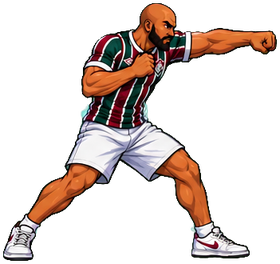
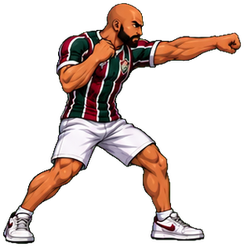
Luta: PTK todo animado (parado, andando, correndo, pulo, defesa, golpes, especiais, apanhando, queda, entrada e vitória) com tamanho igualado
Claude-Session: https://claude.ai/code/session_011mVH7idZefrt4q2rVb7Yyr

Changed region(s): [[0.0, 0.0, 1.0, 0.9919]]

diff --git a/luta/index.html b/luta/index.html
@@ -259,7 +259,7 @@ const $=id=>document.getElementById(id);
 // sprites: largura, altura, x do pé, y do pé (já na escala da imagem)
 // lutadores: cada um com seus sprites (largura, altura, x do pé, y do pé)
 const CHARS=[
-  {id:'c1',name:'PTK SENNA',tag:'Estilo Rugal: Reppuuken, Kaiser Wave, Genocide Cutter',px:1,meta:{"idle":[208.0,288.8,109.4,284.8],"walk":[206.4,288.0,105.8,284.0],"jump":[162.4,285.6,76.2,281.6],"crouch":[192.0,193.6,75.9,189.6],"jab":[280.8,264.0,134.2,260.0],"punch":[245.6,248.8,120.3,244.8],"lowkick":[239.2,206.4,84.0,202.4],"highkick":[257.6,252.0,108.8,248.0],"block":[183.2,237.6,93.4,233.6],"hit":[208.8,242.4,163.6,238.4],"ko":[367.2,100.0,186.6,96.0],"special":[283.2,196.8,123.8,192.8],"fireball":[164.8,140.8,3.2,136.8],"win":[187.2,284.0,92.6,280.0],"kch":[248,281,132.5,277.1],"kpush":[246,281,127.1,277.1],"barrier":[257,286,119.6,281.6],"gpdash":[370,235,25.0,231.0],"gpgrab":[221,286,100.9,281.6],"knee":[143,292,76.7,287.9],"bkick":[261,292,71.0,287.9],"bspin":[322,269,169.9,265.3],"power":[240,296,127.8,292.4],"fx_wave":[322,81,161.3,40.7],"fx_kaiser":[269,115,134.6,57.6],"fx_arc":[260,237,130.4,118.8],"fx_bar":[148,222,74.0,111.0],"fx_boom":[317,220,158.8,110.2],"fx_sp1":[128,69,64.3,34.9],"fx_sp2":[108,79,54.1,39.7],"fx_sp3":[147,65,73.6,33.0],"gc1":[229,228,124.4,223.9],"gc2":[171,341,91.5,337.2],"gc3":[197,325,110.5,320.8],"gc4":[256,426,128.5,422.2],"gc5":[211,334,117.4,329.9],"gc6":[213,205,120.5,201.1],"rp1":[254,299,132.0,295.2],"rp2":[269,252,107.5,247.7],"rp3":[254,202,135.9,198.3],"rp4":[340,148,178.3,143.5],"rp5":[215,297,110.9,292.5]}},
+  {id:'c1',name:'PTK SENNA',tag:'Estilo Rugal: Reppuuken, Kaiser Wave, Genocide Cutter',px:1,meta:{"idle":[197,295,99.0,291.6],"walk":[206.4,288.0,105.8,284.0],"jump":[185,218,75.4,214.1],"crouch":[184,208,92.9,204.4],"jab":[244,247,107.7,242.9],"punch":[250,232,114.4,228.7],"lowkick":[277,179,101.6,176.0],"highkick":[259,261,95.7,257.0],"block":[218,259,111.8,255.3],"hit":[208.8,242.4,163.6,238.4],"ko":[367.2,100.0,186.6,96.0],"special":[283.2,196.8,123.8,192.8],"fireball":[164.8,140.8,3.2,136.8],"win":[187.2,284.0,92.6,280.0],"power":[240,296,127.8,292.4],"fx_boom":[317,220,158.8,110.2],"fx_sp1":[128,69,64.3,34.9],"fx_sp2":[108,79,54.1,39.7],"fx_sp3":[147,65,73.6,33.0],"gc1":[220,219,119.4,214.9],"gc2":[164,327,87.8,323.7],"gc3":[189,312,106.1,308.0],"gc4":[246,409,123.4,405.3],"gc5":[203,321,112.7,316.7],"gc6":[204,197,115.7,193.1],"rp1":[244,287,126.7,283.4],"rp2":[258,242,103.2,237.8],"rp3":[244,194,130.5,190.4],"rp4":[326,142,171.2,137.8],"rp5":[206,285,106.5,280.8],"kw1":[186,295,93.5,291.9],"kw2":[184,293,91.4,289.6],"kw3":[182,291,89.4,287.3],"kw4":[180,275,88.7,272.0],"kw5":[197,278,90.0,274.3],"kw6":[198,277,91.2,273.5],"gp1":[166,252,60.3,248.7],"gp2":[192,257,58.9,253.4],"gp3":[236,243,22.3,239.8],"gp4":[276,261,52.5,256.7],"gp5":[217,260,84.7,255.9],"gp6":[265,254,133.1,251.0],"gd1":[197,295,99.0,291.6],"gd2":[197,295,98.7,291.6],"gd3":[196,289,98.3,286.0],"gd4":[198,295,99.2,291.6],"wk1":[183,295,90.7,291.9],"wk2":[154,289,44.2,285.7],"wk3":[139,291,52.3,287.3],"wk4":[176,289,92.1,285.7],"wk5":[169,292,88.6,288.8],"wk6":[174,292,119.5,288.8],"bd1":[186,320,38.7,315.4],"bd2":[151,334,71.8,329.7],"bd3":[142,334,92.7,329.7],"bd4":[194,341,94.0,336.8],"bd5":[234,335,81.3,330.7],"bd6":[132,283,55.5,343.7],"bd7":[249,211,99.9,281.2],"bd8":[219,240,117.6,235.8],"db1":[261,295,135.1,291.9],"db2":[274,294,128.9,290.4],"db3":[262,294,128.1,290.4],"db4":[260,294,131.5,290.4],"fx_a1":[403,239,201.5,119.5],"fx_a2":[403,239,201.5,119.5],"fx_a3":[403,239,201.5,119.5],"fx_a4":[403,239,201.5,119.5],"fx_k1":[288,175,144.0,87.5],"fx_k2":[288,175,144.0,87.5],"fx_k3":[288,175,144.0,87.5],"fx_k4":[288,175,144.0,87.5],"fx_w1":[280,86,140.0,43.0],"fx_w2":[280,86,140.0,43.0],"fx_w3":[280,86,140.0,43.0],"fx_w4":[280,86,140.0,43.0],"fx_b1":[314,234,157.0,117.0],"fx_b2":[314,234,157.0,117.0],"fx_b3":[314,234,157.0,117.0],"fx_b4":[314,234,157.0,117.0],"lp1":[203,247,105.4,242.9],"lp2":[244,247,107.7,242.9],"lp3":[192,247,98.9,242.9],"hp1":[222,238,117.5,235.0],"hp2":[205,237,105.1,232.6],"hp3":[250,232,114.4,228.7],"hp4":[197,237,101.7,232.6],"lk1":[150,192,56.3,188.7],"lk2":[277,179,101.6,176.0],"lk3":[191,215,99.4,211.4],"hk1":[131,256,54.4,253.1],"hk2":[164,260,103.0,256.2],"hk3":[259,261,95.7,257.0],"hk4":[108,256,32.0,253.1],"hit1":[185,247,96.3,244.2],"hit2":[198,226,101.8,223.0],"hit3":[160,163,40.6,159.3],"hit4":[187,245,96.3,241.2],"fall1":[281,200,131.4,196.4],"fall2":[254,115,128.3,112.2],"fall3":[264,119,122.0,115.3],"fall4":[266,78,123.1,74.3],"up1":[266,129,132.1,125.1],"up2":[240,161,119.7,157.0],"up3":[181,207,99.5,204.0],"up4":[202,232,105.0,228.3],"in1":[166,296,83.2,292.0],"in2":[169,296,74.7,292.0],"in3":[170,296,87.4,292.0],"in4":[214,285,109.9,281.6],"wn1":[140,300,71.3,296.0],"wn2":[194,300,81.4,296.0],"wn3":[178,324,92.3,320.1],"wn4":[255,297,135.4,293.6],"th1":[205,297,89.1,293.6],"th2":[188,328,91.1,324.1],"th3":[193,300,97.7,296.8],"th4":[223,304,95.2,300.0],"jp1":[186,212,76.4,207.9],"jp2":[211,285,104.8,280.8],"jp3":[185,218,75.4,214.1],"jp4":[285,254,138.5,250.1],"cr":[184,208,92.9,204.4],"bl":[218,259,111.8,255.3],"cb":[193,216,99.7,212.3],"ak":[293,250,139.0,246.6],"run1":[188,238,33.8,234.3],"run2":[207,247,26.5,243.0],"run3":[219,224,81.0,220.2],"run4":[248,238,181.0,234.3],"run5":[204,247,24.8,243.0],"run6":[247,241,22.0,236.9]}},
   {id:'c3',name:'FOFOQUEIRA',tag:'Mergulho de barriga e chama o busão',sp:'dive',tk:'bus',meta:{"idle":[228,286,114.6,282.4],"walk":[221,291,111.3,287.2],"jump":[205,252,96.0,248.0],"crouch":[213,224,82.1,220.0],"jab":[238,254,106.3,250.4],"punch":[296,269,127.2,265.6],"highkick":[285,257,87.6,253.6],"block":[226,267,109.7,263.2],"hit":[284,256,200.8,252.8],"ko":[412,161,200.7,157.6],"special":[408,144,194.5,140.8],"win":[157,273,78.4,269.6],"lowkick":[285,257,87.6,253.6]}},
   {id:'c4',name:'NELSON BOLSONARISTA',tag:'Solta o passarinho e taca o cigarro',tk:'cig',limp:1,meta:{"idle":[204,289,103.6,285.1],"walk":[209,293,121.1,288.6],"jump":[176,273,84.5,269.3],"crouch":[142,198,49.2,194.5],"jab":[230,247,97.3,242.9],"punch":[245,248,114.7,243.8],"lowkick":[275,254,84.8,249.9],"highkick":[242,266,99.7,262.2],"block":[192,242,91.2,237.6],"hit":[195,239,129.7,235.0],"ko":[298,127,149.7,123.2],"special":[312,265,143.4,261.4],"fireball":[105,64,3.5,59.8],"win":[450,308,98.3,303.6]}},
   {id:'c2',name:'BODINHO',tag:'Magrelo, rápido e solta bola de fogo',meta:{"idle":[202,281,99.6,277.6],"walk":[199,279,97.5,275.2],"jump":[195,244,91.6,240.8],"crouch":[177,189,66.1,185.6],"jab":[268,252,113.8,248.8],"punch":[236,244,113.0,240.8],"lowkick":[264,231,72.4,227.2],"highkick":[242,264,93.2,260.8],"block":[184,234,89.6,230.4],"hit":[212,240,155.9,236.8],"ko":[401,117,189.8,113.6],"special":[312,218,131.7,214.4],"fireball":[186,143,3.2,139.2],"win":[196,288,97.9,284.8]}},
@@ -535,12 +535,12 @@ function stepPtk(f){const m=f.mv,t=f.t,d=F[1-f.i],end=()=>{f.state='idle';f.mv=n
   else if(m.px==='bd'){const seg=t<14?0:t<28?1:t<46?2:3;if(seg<3&&!f.hitDone)f.vx=3.6*f.face;else f.vx*=0.7;
     if(seg===0&&t===6||seg===1&&t===19||seg===2&&t===34){f.hitDone=false;const last=seg===2;if(ptkHit(f,last?{dmg:12,stun:24,push:6,lvl:'m',kd:1}:{dmg:7,stun:22,push:2.5,lvl:'m'},{reach:last?175:150,y0:last?250:270,y1:20,hy:last?170:140})){f.bdh++;if(!last)f.hitDone=false;else if(d.state==='down'){d.vx=f.face*14;d.vy=-12;d.spinRot=f.face*0.2}if(f.bdh>=2)G.cb={i:f.i,n:f.bdh,t:60}}}
     if(t>=58)end()}}
-function ptkSpr(f){const m=f.mv,t=f.t;switch(m.px){case'rep':return t<3?'rp1':t<6?'rp2':t<10?'rp3':t<24?'rp4':'rp5';case'kw':return t<17?'kch':'kpush';case'gc':return t<3?'gc1':f.ground&&t>8?'gc6':t<6?'gc2':t<9?'gc3':t<27?'gc4':'gc5';case'bar':return t<4?'idle':'barrier';
-  case'gp':return f.gpc?(f.gpEnd?'power':'gpgrab'):'gpdash';case'bd':return t<14?'knee':t<28?'bkick':t<46?'bspin':'power'}return'idle'}
+function ptkSpr(f){const m=f.mv,t=f.t;switch(m.px){case'rep':return t<3?'rp1':t<6?'rp2':t<10?'rp3':t<24?'rp4':'rp5';case'kw':return t<4?'kw1':t<9?'kw2':t<17?'kw3':t<20?'kw4':t<28?'kw5':'kw6';case'gc':return t<3?'gc1':f.ground&&t>8?'gc6':t<6?'gc2':t<9?'gc3':t<27?'gc4':'gc5';case'bar':return t<4?'db1':t<8?'db2':t<30?'db3':'db4';
+  case'gp':return f.gpc?(f.gpEnd?'power':(t%8<4?'gp5':'gp6')):t<4?'gp1':t<8?'gp2':t>=40?'gp1':(t<20?'gp3':'gp4');case'bd':return t<4?'bd1':t<12?'bd2':t<15?'bd3':t<18?'bd4':t<26?'bd5':t<31?'bd6':t<44?'bd7':'bd8'}return'idle'}
 function drawPtk(f){if(!(f.state==='atk'&&f.mv&&f.mv.px))return;const m=f.mv,t=f.t,M=CHARS[f.c].meta,I=IM[f.c];const dr=(k,x,y,s,a,rot)=>{const mm=M[k],im=I[k];if(!mm||!im)return;ctx.save();ctx.globalAlpha=a;ctx.translate(x,y);ctx.scale(f.face,1);if(rot)ctx.rotate(rot);ctx.drawImage(im,-mm[0]*s/2,-mm[1]*s/2,mm[0]*s,mm[1]*s);ctx.globalCompositeOperation='lighter';ctx.globalAlpha=a*0.35;ctx.drawImage(im,-mm[0]*s/2,-mm[1]*s/2,mm[0]*s,mm[1]*s);ctx.restore()};
-  if(m.px==='kw'&&t<18){const c=Math.min(1,(t+f.kc)/45);dr('fx_kaiser',f.x+f.face*70,f.y-185,K*(0.3+c*0.5),0.9,0);if(f.kc>=30&&G.tf%6<3)dr('fx_sp2',f.x+f.face*70,f.y-185,K*1.1,0.8,G.tf*0.2)}
-  if(m.px==='gc'&&t>=6&&t<26)dr('fx_arc',f.x+f.face*40,f.y-170,K*1.15,1-(t-6)/24,0);
-  if(barOn(f))dr('fx_bar',f.x+f.face*105,f.y-140,K*(1+Math.sin(G.tf*0.5)*0.05),Math.min(1,(t-4)/4)*(t>30?(34-t)/4:1),0);
+  if(m.px==='kw'&&t>=9&&t<18){const c=Math.min(1,(t+f.kc)/45);dr(c<0.35?'fx_k1':'fx_k2',f.x+f.face*55,f.y-205,K*(0.45+c*0.55),1,0);if(f.kc>=30&&G.tf%6<3)dr('fx_sp2',f.x+f.face*70,f.y-185,K*1.1,0.8,G.tf*0.2)}
+  if(m.px==='gc'&&t>=6&&t<27)dr(t<9?'fx_a1':t<14?'fx_a2':t<22?'fx_a3':'fx_a4',f.x+f.face*40,f.y-175,K*0.95,1,0);
+  if(m.px==='bar'&&t>=4&&t<38)dr(t<8?'fx_b1':t<12?'fx_b2':t<31?'fx_b3':'fx_b4',f.x+f.face*125,f.y-150,K*0.78*(t>=12&&t<31?1+Math.sin(G.tf*0.5)*0.04:1),1,0);
   if(m.px==='rep'&&t>=6&&t<12)dr('fx_sp1',f.x+f.face*110,f.y-30,K,0.9,0)}
 function drawEx(){for(const e of (G.ex||[])){const M=CHARS[e.c]&&CHARS[e.c].meta[e.k],im=IM[e.c]&&IM[e.c][e.k];if(!M||!im)continue;const k=1-e.l/e.L,s=K*(e.s0+(e.s1-e.s0)*k);ctx.save();ctx.globalAlpha=Math.min(1,e.l/(e.L*0.5));ctx.translate(e.x,e.y);ctx.scale(e.fl,1);ctx.drawImage(im,-M[0]*s/2,-M[1]*s/2,M[0]*s,M[1]*s);ctx.restore()}}
 function separate(){const a=F[0],b=F[1];if(['thrown','down','throw'].includes(a.state)||['thrown','down','throw'].includes(b.state))return;const d=b.x-a.x,min=72;if(Math.abs(d)<min&&Math.abs(a.y-b.y)<160&&a.state!=='ko'&&b.state!=='ko'){const push=(min-Math.abs(d))/2*(d>=0?1:-1);a.x-=push;b.x+=push;a.x=Math.max(60,Math.min(W-60,a.x));b.x=Math.max(60,Math.min(W-60,b.x))}}
@@ -553,7 +553,7 @@ function stepProj(f){const p=f.proj;if(!p)return;p.age=(p.age||0)+1;
   if(p.kind==='leaf')p.rot+=0.3;
   p.x+=p.vx;p.life--;if(p.vy)p.y=Math.min(p.y+p.vy,p.yMax);if(p.kind==='cig'){p.rot=(p.rot||0)+0.5;if(G.tf%2===0)G.parts.push({x:p.x-p.vx,y:p.y-4,vx:-p.vx*0.05,vy:-0.4,l:22,col:'rgba(225,225,225,.55)'})}const d=F[1-f.i];const h=hurt(d);
   const o=F[1-f.i].proj;if(o&&Math.abs(o.x-p.x)<60){spark((o.x+p.x)/2,p.y,'#9fdcff',18);f.proj=null;F[1-f.i].proj=null;sfx('block');return}
-  const fe=p.x+(p.vx>0?55:-55);if(h&&!p.hit&&fe>h.x0-10&&fe<h.x1+10&&p.y>h.y0&&p.y<h.y1){applyHit(f,d,p.kind==='wave'?MOVES.wave_hit:p.kind==='kaiser'?(p.big?MOVES.kw_big:MOVES.kw_hit):p.kind==='cig'?MOVES.cig_hit:p.kind==='boom'?MOVES.boom_hit:p.kind==='water'?MOVES.water_hit:MOVES.sp_hit,fe,p.y,1);if(p.kind==='cig')spark(fe,p.y,'#ff8a1a',14);if(p.kind==='leaf'||p.kind==='smoke')spark(fe,p.y,'#5dff6a',14);if(p.kind==='water')spark(fe,p.y,'#8fd6ff',16);if(p.kind==='wave'||p.kind==='kaiser')exAdd(p.c,'fx_sp'+(1+Math.floor(Math.random()*3)),fe,p.y,14,0.9,1.3);if(p.kind==='boom'){p.hit=true;return}f.proj=null;return}
+  const fe=p.x+(p.vx>0?55:-55);if(h&&!p.hit&&fe>h.x0-10&&fe<h.x1+10&&p.y>h.y0&&p.y<h.y1){applyHit(f,d,p.kind==='wave'?MOVES.wave_hit:p.kind==='kaiser'?(p.big?MOVES.kw_big:MOVES.kw_hit):p.kind==='cig'?MOVES.cig_hit:p.kind==='boom'?MOVES.boom_hit:p.kind==='water'?MOVES.water_hit:MOVES.sp_hit,fe,p.y,1);if(p.kind==='cig')spark(fe,p.y,'#ff8a1a',14);if(p.kind==='leaf'||p.kind==='smoke')spark(fe,p.y,'#5dff6a',14);if(p.kind==='water')spark(fe,p.y,'#8fd6ff',16);if(p.kind==='wave')exAdd(p.c,'fx_w4',fe,p.y,14,0.9,1.1,p.vx>0?1:-1);if(p.kind==='kaiser')exAdd(p.c,'fx_k4',fe,p.y,16,p.big?1:0.8,p.big?1.6:1.2);if(p.kind==='boom'){p.hit=true;return}f.proj=null;return}
   if(p.life<=0||p.x<-200||p.x>W+200)f.proj=null}
 MOVES.sp_hit={dmg:14,stun:22,push:7,lvl:'m'};
 MOVES.cig_hit={dmg:10,stun:18,push:5,lvl:'h'};
@@ -738,7 +738,23 @@ function sprFor(f){
   if(f.state==='run')return Math.floor(f.t/5)%2?'walk':'jump';
   if(f.blockHold&&F[1-f.i].state==='atk')return'block';
   return'idle'}
-function drawF(f){const k=sprFor(f),M=CHARS[f.c].meta[k],im=(f.alt?RC:IM)[f.c][k];if(!im)return;
+function drawF(f){let k0=sprFor(f);const MM=CHARS[f.c].meta;if(MM.gd1&&f.ground){if(k0==='idle'&&(f.state==='idle'||f.state==='crouch'&&!f.crouch))k0='gd'+[1,2,3,4,3,2][Math.floor(G.tf/9)%6];else if(f.state==='walk'){const back=f.vx*f.face<0,n=Math.floor(f.t/7)%6;k0='wk'+(1+(back?5-n:n))}}
+  if(MM.fall1){const st=f.state;
+    if(st==='hit')k0=f.crouch?'hit3':f.t>(f.stun||16)-5?'hit4':((Math.round(f.hp*7)%2)?'hit2':'hit1');
+    else if(st==='shit'||st==='gp'||st==='thrown')k0='hit1';
+    else if(st==='down'||st==='ko'){if(!f.ground)k0=f.vy<0?'fall1':'fall2';else k0=(f.t-(f.downT||0))<8&&st==='down'?'fall3':'fall4'}
+    else if(st==='getup')k0=f.t<4?'up1':f.t<8?'up2':f.t<12?'up3':'up4'}
+  if(MM.in1){if(G.mode==='intro'&&f.state==='idle'){f.it=(f.it||0)+1;const it=f.it;if(it<70)k0=it<22?'in1':it<38?'in2':it<56?'in3':'in4'}else f.it=0;
+    if(f.state==='win')k0=f.t<10?'wn1':f.t<20?'wn2':f.t<44?'wn3':(Math.floor(f.t/30)%2?'wn4':'wn3');
+    if(f.state==='throw')k0=f.t<6?'th1':f.t<12?'th2':f.t<26?'th3':'th4';else if(f.state==='throwEnd')k0='th4'}
+  if(MM.jp1){const st=f.state;
+    if(st==='jump')k0=f.t<3?'jp1':f.vy<-6?'jp2':f.vy<6?'jp3':'jp4';
+    else if(st==='run')k0='run'+(1+Math.floor(f.t/4)%6);
+    else if(st==='block')k0=f.crouch?'cb':'bl';
+    else if(k0==='crouch'&&(st==='crouch'||f.crouch)&&st!=='atk'&&st!=='getup')k0='cr';
+    if(st==='atk'&&f.mv===MOVES.ak)k0='ak'}
+  if(MM.lp1&&f.state==='atk'&&f.mv){const mv=f.mv,t=f.t,a=mv.start,b=mv.start+mv.act,ph=t<a?0:t<b+4?1:2;
+    if(mv===MOVES.lp)k0=['lp1','lp2','lp3'][ph];else if(mv===MOVES.hp)k0=ph?(ph===1?'hp3':'hp4'):(t<a/2?'hp1':'hp2');else if(mv===MOVES.lk)k0=ph===1?'lk2':'lk1';else if(mv===MOVES.hk)k0=ph?(ph===1?'hk3':'hk4'):(t<a/2?'hk1':'hk2')}const k=k0,M=CHARS[f.c].meta[k],im=(f.alt?RC:IM)[f.c][k];if(!im)return;
   let sy=1,sx=1,ox=0;
   if(k==='idle'&&f.state!=='atk')sy=1+Math.sin(G.tf*0.09+f.i)*0.012;
   if(f.state==='run'){sy=1+Math.abs(Math.sin(f.t*0.6))*0.03}
@@ -759,7 +775,7 @@ function drawF(f){const k=sprFor(f),M=CHARS[f.c].meta[k],im=(f.alt?RC:IM)[f.c][k
   if((f.sm||0)>=100||f.state==='super'){const sup=f.state==='super';ctx.shadowColor=sup?'#fff3a0':'#ffd23a';ctx.shadowBlur=(sup?34:14)+Math.sin(G.tf*0.25)*(sup?10:7)}
   ctx.drawImage(im,-ax,-ay,w,h);ctx.restore();drawDizzy(f)}
 function drawProj(f){const p=f.proj;if(!p)return;
-  if(p.kind==='wave'||p.kind==='kaiser'){const k='fx_'+p.kind,M=CHARS[p.c].meta[k],im=IM[p.c][k];if(!M||!im)return;const s=K*(p.big?1.45:1)*(1+Math.sin(G.tf*0.6)*0.04);ctx.save();ctx.translate(p.x,p.y);ctx.scale(p.vx>0?1:-1,1);ctx.drawImage(im,-M[0]*s*0.75,-M[1]*s/2,M[0]*s,M[1]*s);ctx.globalCompositeOperation='lighter';ctx.globalAlpha=0.3;ctx.drawImage(im,-M[0]*s*0.75,-M[1]*s/2,M[0]*s,M[1]*s);ctx.restore();return}
+  if(p.kind==='wave'||p.kind==='kaiser'){const ag=p.age||0,k=p.kind==='wave'?'fx_w'+(ag<4?1:ag<8?2:(G.tf%8<5?3:2)):(ag<3?'fx_k2':'fx_k3'),M=CHARS[p.c].meta[k],im=IM[p.c][k];if(!M||!im)return;const s=K*(p.big?1.45:1)*(1+Math.sin(G.tf*0.6)*0.04);ctx.save();ctx.translate(p.x,p.y);ctx.scale(p.vx>0?1:-1,1);ctx.drawImage(im,-M[0]*s*0.75,-M[1]*s/2,M[0]*s,M[1]*s);ctx.globalCompositeOperation='lighter';ctx.globalAlpha=0.3;ctx.drawImage(im,-M[0]*s*0.75,-M[1]*s/2,M[0]*s,M[1]*s);ctx.restore();return}
   if(p.kind==='leaf'||p.kind==='boom'||p.kind==='smoke'||p.kind==='water'){const M=CHARS[p.c].meta.fireball,im=IM[p.c].fireball;if(!M||!im)return;ctx.save();ctx.translate(p.x,p.y);
     if(p.kind==='leaf'||p.kind==='boom'){const s=K*(p.kind==='boom'?1.15:0.95);ctx.rotate(p.rot*(p.dir||1));ctx.drawImage(im,-M[0]*s/2,-M[1]*s/2,M[0]*s,M[1]*s)}
     else if(p.kind==='smoke'){const s=K*(0.8+Math.min(0.5,(p.age||0)/120));ctx.scale(p.vx>0?1:-1,1);ctx.globalAlpha=Math.min(0.95,p.life/30);ctx.drawImage(im,-M[0]*s*0.55,-M[1]*s/2,M[0]*s,M[1]*s)}

diff --git a/sw.js b/sw.js
@@ -1,8 +1,8 @@
 // Service worker do Rua Ubaldina Dash: deixa o jogo abrir como app e funcionar offline.
-const V='ubaldina-v16';
+const V='ubaldina-v17';
 const BASE=['./','index.html','flavio.html','guerra.html','conta.js','manifest.json','icon-192.png','icon-512.png','icon-maskable.png','apple-touch-icon.png'];
 // Ubaldina Fighter inteiro (página + imagens) pra lutar sozinho sem internet
-const LUTA=['luta/','luta/img/bar.jpg','luta/img/bar_p.jpg','luta/img/burg.jpg','luta/img/burg_p.jpg','luta/img/bus.png','luta/img/bus_r.png','luta/img/c1/barrier.png','luta/img/c1/bkick.png','luta/img/c1/block.png','luta/img/c1/bspin.png','luta/img/c1/crouch.png','luta/img/c1/fireball.png','luta/img/c1/fx_arc.png','luta/img/c1/fx_bar.png','luta/img/c1/fx_boom.png','luta/img/c1/fx_kaiser.png','luta/img/c1/fx_sp1.png','luta/img/c1/fx_sp2.png','luta/img/c1/fx_sp3.png','luta/img/c1/fx_wave.png','luta/img/c1/gc1.png','luta/img/c1/gc2.png','luta/img/c1/gc3.png','luta/img/c1/gc4.png','luta/img/c1/gc5.png','luta/img/c1/gc6.png','luta/img/c1/gpdash.png','luta/img/c1/gpgrab.png','luta/img/c1/highkick.png','luta/img/c1/hit.png','luta/img/c1/idle.png','luta/img/c1/jab.png','luta/img/c1/jump.png','luta/img/c1/kch.png','luta/img/c1/knee.png','luta/img/c1/ko.png','luta/img/c1/kpush.png','luta/img/c1/lowkick.png','luta/img/c1/power.png','luta/img/c1/punch.png','luta/img/c1/rp1.png','luta/img/c1/rp2.png','luta/img/c1/rp3.png','luta/img/c1/rp4.png','luta/img/c1/rp5.png','luta/img/c1/special.png','luta/img/c1/walk.png','luta/img/c1/win.png','luta/img/c1/winbig.png','luta/img/c2/block.png','luta/img/c2/crouch.png','luta/img/c2/fireball.png','luta/img/c2/highkick.png','luta/img/c2/hit.png','luta/img/c2/idle.png','luta/img/c2/jab.png','luta/img/c2/jump.png','luta/img/c2/ko.png','luta/img/c2/lowkick.png','luta/img/c2/punch.png','luta/img/c2/special.png','luta/img/c2/walk.png','luta/img/c2/win.png','luta/img/c2/winbig.png','luta/img/c3/block.png','luta/img/c3/crouch.png','luta/img/c3/highkick.png','luta/img/c3/hit.png','luta/img/c3/idle.png','luta/img/c3/jab.png','luta/img/c3/jump.png','luta/img/c3/ko.png','luta/img/c3/lowkick.png','luta/img/c3/punch.png','luta/img/c3/special.png','luta/img/c3/walk.png','luta/img/c3/win.png','luta/img/c3/winbig.png','luta/img/c4/block.png','luta/img/c4/crouch.png','luta/img/c4/fireball.png','luta/img/c4/highkick.png','luta/img/c4/hit.png','luta/img/c4/idle.png','luta/img/c4/jab.png','luta/img/c4/jump.png','luta/img/c4/ko.png','luta/img/c4/lowkick.png','luta/img/c4/punch.png','luta/img/c4/special.png','luta/img/c4/walk.png','luta/img/c4/win.png','luta/img/c4/winbig.png','luta/img/lara.jpg','luta/img/lara_p.jpg','luta/img/mara.jpg','luta/img/mara_p.jpg','luta/img/muro.jpg','luta/img/muro_p.jpg','luta/img/npc/cart.png','luta/img/npc/n0a.png','luta/img/npc/n0b.png','luta/img/npc/n10a.png','luta/img/npc/n10b.png','luta/img/npc/n11a.png','luta/img/npc/n11b.png','luta/img/npc/n12a.png','luta/img/npc/n12b.png','luta/img/npc/n13a.png','luta/img/npc/n13b.png','luta/img/npc/n14a.png','luta/img/npc/n14b.png','luta/img/npc/n15a.png','luta/img/npc/n15b.png','luta/img/npc/n16a.png','luta/img/npc/n16b.png','luta/img/npc/n1a.png','luta/img/npc/n1b.png','luta/img/npc/n2a.png','luta/img/npc/n2b.png','luta/img/npc/n3a.png','luta/img/npc/n3b.png','luta/img/npc/n4a.png','luta/img/npc/n4b.png','luta/img/npc/n5a.png','luta/img/npc/n5b.png','luta/img/npc/n6a.png','luta/img/npc/n6b.png','luta/img/npc/n7a.png','luta/img/npc/n7b.png','luta/img/npc/n8a.png','luta/img/npc/n8b.png','luta/img/npc/n9a.png','luta/img/npc/n9b.png','luta/img/praca.jpg','luta/img/praca_p.jpg','luta/img/rua.jpg','luta/img/rua_p.jpg','luta/img/sel/c1.jpg','luta/img/sel/c1t.jpg','luta/img/sel/c2.jpg','luta/img/sel/c3.jpg','luta/img/sel/c4.jpg','luta/img/sel/mapa.jpg','luta/img/sel/t1.jpg','luta/img/sel/t2.jpg','luta/img/sel/t3.jpg','luta/img/sel/t4.jpg','luta/img/sel/t5.jpg','luta/img/sel/t6.jpg','luta/img/sel/t7.jpg','luta/img/t1/block.png','luta/img/t1/crouch.png','luta/img/t1/fireball.png','luta/img/t1/highkick.png','luta/img/t1/hit.png','luta/img/t1/idle.png','luta/img/t1/jab.png','luta/img/t1/jump.png','luta/img/t1/ko.png','luta/img/t1/lowkick.png','luta/img/t1/punch.png','luta/img/t1/special.png','luta/img/t1/walk.png','luta/img/t1/win.png','luta/img/t1/winbig.png','luta/img/t2/block.png','luta/img/t2/crouch.png','luta/img/t2/fireball.png','luta/img/t2/highkick.png','luta/img/t2/hit.png','luta/img/t2/idle.png','luta/img/t2/jab.png','luta/img/t2/jump.png','luta/img/t2/ko.png','luta/img/t2/lowkick.png','luta/img/t2/punch.png','luta/img/t2/special.png','luta/img/t2/walk.png','luta/img/t2/win.png','luta/img/t2/winbig.png','luta/img/t3/block.png','luta/img/t3/crouch.png','luta/img/t3/highkick.png','luta/img/t3/hit.png','luta/img/t3/idle.png','luta/img/t3/jab.png','luta/img/t3/jump.png','luta/img/t3/ko.png','luta/img/t3/lowkick.png','luta/img/t3/punch.png','luta/img/t3/special.png','luta/img/t3/walk.png','luta/img/t3/win.png','luta/img/t3/winbig.png','luta/img/t3/women.png','luta/img/t4/block.png','luta/img/t4/crouch.png','luta/img/t4/fireball.png','luta/img/t4/highkick.png','luta/img/t4/hit.png','luta/img/t4/idle.png','luta/img/t4/jab.png','luta/img/t4/jump.png','luta/img/t4/ko.png','luta/img/t4/lowkick.png','luta/img/t4/punch.png','luta/img/t4/special.png','luta/img/t4/walk.png','luta/img/t4/win.png','luta/img/t4/winbig.png','luta/img/t5/block.png','luta/img/t5/crouch.png','luta/img/t5/fireball.png','luta/img/t5/highkick.png','luta/img/t5/hit.png','luta/img/t5/idle.png','luta/img/t5/jab.png','luta/img/t5/jump.png','luta/img/t5/ko.png','luta/img/t5/lowkick.png','luta/img/t5/punch.png','luta/img/t5/special.png','luta/img/t5/walk.png','luta/img/t5/win.png','luta/img/t5/winbig.png','luta/img/t6/block.png','luta/img/t6/crouch.png','luta/img/t6/fireball.png','luta/img/t6/highkick.png','luta/img/t6/hit.png','luta/img/t6/idle.png','luta/img/t6/jab.png','luta/img/t6/jump.png','luta/img/t6/ko.png','luta/img/t6/lowkick.png','luta/img/t6/punch.png','luta/img/t6/special.png','luta/img/t6/walk.png','luta/img/t6/win.png','luta/img/t6/winbig.png','luta/img/t7/block.png','luta/img/t7/crouch.png','luta/img/t7/fireball.png','luta/img/t7/highkick.png','luta/img/t7/hit.png','luta/img/t7/idle.png','luta/img/t7/jab.png','luta/img/t7/jump.png','luta/img/t7/ko.png','luta/img/t7/lowkick.png','luta/img/t7/punch.png','luta/img/t7/special.png','luta/img/t7/walk.png','luta/img/t7/win.png','luta/img/t7/winbig.png','luta/img/tri_logo.png','luta/snd/tri_menu.mp3'];
+const LUTA=['luta/','luta/img/bar.jpg','luta/img/bar_p.jpg','luta/img/burg.jpg','luta/img/burg_p.jpg','luta/img/bus.png','luta/img/bus_r.png','luta/img/c1/ak.png','luta/img/c1/bd1.png','luta/img/c1/bd2.png','luta/img/c1/bd3.png','luta/img/c1/bd4.png','luta/img/c1/bd5.png','luta/img/c1/bd6.png','luta/img/c1/bd7.png','luta/img/c1/bd8.png','luta/img/c1/bl.png','luta/img/c1/block.png','luta/img/c1/cb.png','luta/img/c1/cr.png','luta/img/c1/crouch.png','luta/img/c1/db1.png','luta/img/c1/db2.png','luta/img/c1/db3.png','luta/img/c1/db4.png','luta/img/c1/fall1.png','luta/img/c1/fall2.png','luta/img/c1/fall3.png','luta/img/c1/fall4.png','luta/img/c1/fireball.png','luta/img/c1/fx_a1.png','luta/img/c1/fx_a2.png','luta/img/c1/fx_a3.png','luta/img/c1/fx_a4.png','luta/img/c1/fx_b1.png','luta/img/c1/fx_b2.png','luta/img/c1/fx_b3.png','luta/img/c1/fx_b4.png','luta/img/c1/fx_boom.png','luta/img/c1/fx_k1.png','luta/img/c1/fx_k2.png','luta/img/c1/fx_k3.png','luta/img/c1/fx_k4.png','luta/img/c1/fx_sp1.png','luta/img/c1/fx_sp2.png','luta/img/c1/fx_sp3.png','luta/img/c1/fx_w1.png','luta/img/c1/fx_w2.png','luta/img/c1/fx_w3.png','luta/img/c1/fx_w4.png','luta/img/c1/gc1.png','luta/img/c1/gc2.png','luta/img/c1/gc3.png','luta/img/c1/gc4.png','luta/img/c1/gc5.png','luta/img/c1/gc6.png','luta/img/c1/gd1.png','luta/img/c1/gd2.png','luta/img/c1/gd3.png','luta/img/c1/gd4.png','luta/img/c1/gp1.png','luta/img/c1/gp2.png','luta/img/c1/gp3.png','luta/img/c1/gp4.png','luta/img/c1/gp5.png','luta/img/c1/gp6.png','luta/img/c1/highkick.png','luta/img/c1/hit.png','luta/img/c1/hit1.png','luta/img/c1/hit2.png','luta/img/c1/hit3.png','luta/img/c1/hit4.png','luta/img/c1/hk1.png','luta/img/c1/hk2.png','luta/img/c1/hk3.png','luta/img/c1/hk4.png','luta/img/c1/hp1.png','luta/img/c1/hp2.png','luta/img/c1/hp3.png','luta/img/c1/hp4.png','luta/img/c1/idle.png','luta/img/c1/in1.png','luta/img/c1/in2.png','luta/img/c1/in3.png','luta/img/c1/in4.png','luta/img/c1/jab.png','luta/img/c1/jp1.png','luta/img/c1/jp2.png','luta/img/c1/jp3.png','luta/img/c1/jp4.png','luta/img/c1/jump.png','luta/img/c1/ko.png','luta/img/c1/kw1.png','luta/img/c1/kw2.png','luta/img/c1/kw3.png','luta/img/c1/kw4.png','luta/img/c1/kw5.png','luta/img/c1/kw6.png','luta/img/c1/lk1.png','luta/img/c1/lk2.png','luta/img/c1/lk3.png','luta/img/c1/lowkick.png','luta/img/c1/lp1.png','luta/img/c1/lp2.png','luta/img/c1/lp3.png','luta/img/c1/power.png','luta/img/c1/punch.png','luta/img/c1/rp1.png','luta/img/c1/rp2.png','luta/img/c1/rp3.png','luta/img/c1/rp4.png','luta/img/c1/rp5.png','luta/img/c1/run1.png','luta/img/c1/run2.png','luta/img/c1/run3.png','luta/img/c1/run4.png','luta/img/c1/run5.png','luta/img/c1/run6.png','luta/img/c1/special.png','luta/img/c1/th1.png','luta/img/c1/th2.png','luta/img/c1/th3.png','luta/img/c1/th4.png','luta/img/c1/up1.png','luta/img/c1/up2.png','luta/img/c1/up3.png','luta/img/c1/up4.png','luta/img/c1/walk.png','luta/img/c1/win.png','luta/img/c1/winbig.png','luta/img/c1/wk1.png','luta/img/c1/wk2.png','luta/img/c1/wk3.png','luta/img/c1/wk4.png','luta/img/c1/wk5.png','luta/img/c1/wk6.png','luta/img/c1/wn1.png','luta/img/c1/wn2.png','luta/img/c1/wn3.png','luta/img/c1/wn4.png','luta/img/c2/block.png','luta/img/c2/crouch.png','luta/img/c2/fireball.png','luta/img/c2/highkick.png','luta/img/c2/hit.png','luta/img/c2/idle.png','luta/img/c2/jab.png','luta/img/c2/jump.png','luta/img/c2/ko.png','luta/img/c2/lowkick.png','luta/img/c2/punch.png','luta/img/c2/special.png','luta/img/c2/walk.png','luta/img/c2/win.png','luta/img/c2/winbig.png','luta/img/c3/block.png','luta/img/c3/crouch.png','luta/img/c3/highkick.png','luta/img/c3/hit.png','luta/img/c3/idle.png','luta/img/c3/jab.png','luta/img/c3/jump.png','luta/img/c3/ko.png','luta/img/c3/lowkick.png','luta/img/c3/punch.png','luta/img/c3/special.png','luta/img/c3/walk.png','luta/img/c3/win.png','luta/img/c3/winbig.png','luta/img/c4/block.png','luta/img/c4/crouch.png','luta/img/c4/fireball.png','luta/img/c4/highkick.png','luta/img/c4/hit.png','luta/img/c4/idle.png','luta/img/c4/jab.png','luta/img/c4/jump.png','luta/img/c4/ko.png','luta/img/c4/lowkick.png','luta/img/c4/punch.png','luta/img/c4/special.png','luta/img/c4/walk.png','luta/img/c4/win.png','luta/img/c4/winbig.png','luta/img/lara.jpg','luta/img/lara_p.jpg','luta/img/mara.jpg','luta/img/mara_p.jpg','luta/img/muro.jpg','luta/img/muro_p.jpg','luta/img/npc/cart.png','luta/img/npc/n0a.png','luta/img/npc/n0b.png','luta/img/npc/n10a.png','luta/img/npc/n10b.png','luta/img/npc/n11a.png','luta/img/npc/n11b.png','luta/img/npc/n12a.png','luta/img/npc/n12b.png','luta/img/npc/n13a.png','luta/img/npc/n13b.png','luta/img/npc/n14a.png','luta/img/npc/n14b.png','luta/img/npc/n15a.png','luta/img/npc/n15b.png','luta/img/npc/n16a.png','luta/img/npc/n16b.png','luta/img/npc/n1a.png','luta/img/npc/n1b.png','luta/img/npc/n2a.png','luta/img/npc/n2b.png','luta/img/npc/n3a.png','luta/img/npc/n3b.png','luta/img/npc/n4a.png','luta/img/npc/n4b.png','luta/img/npc/n5a.png','luta/img/npc/n5b.png','luta/img/npc/n6a.png','luta/img/npc/n6b.png','luta/img/npc/n7a.png','luta/img/npc/n7b.png','luta/img/npc/n8a.png','luta/img/npc/n8b.png','luta/img/npc/n9a.png','luta/img/npc/n9b.png','luta/img/praca.jpg','luta/img/praca_p.jpg','luta/img/rua.jpg','luta/img/rua_p.jpg','luta/img/sel/c1.jpg','luta/img/sel/c1t.jpg','luta/img/sel/c2.jpg','luta/img/sel/c3.jpg','luta/img/sel/c4.jpg','luta/img/sel/mapa.jpg','luta/img/sel/t1.jpg','luta/img/sel/t2.jpg','luta/img/sel/t3.jpg','luta/img/sel/t4.jpg','luta/img/sel/t5.jpg','luta/img/sel/t6.jpg','luta/img/sel/t7.jpg','luta/img/t1/block.png','luta/img/t1/crouch.png','luta/img/t1/fireball.png','luta/img/t1/highkick.png','luta/img/t1/hit.png','luta/img/t1/idle.png','luta/img/t1/jab.png','luta/img/t1/jump.png','luta/img/t1/ko.png','luta/img/t1/lowkick.png','luta/img/t1/punch.png','luta/img/t1/special.png','luta/img/t1/walk.png','luta/img/t1/win.png','luta/img/t1/winbig.png','luta/img/t2/block.png','luta/img/t2/crouch.png','luta/img/t2/fireball.png','luta/img/t2/highkick.png','luta/img/t2/hit.png','luta/img/t2/idle.png','luta/img/t2/jab.png','luta/img/t2/jump.png','luta/img/t2/ko.png','luta/img/t2/lowkick.png','luta/img/t2/punch.png','luta/img/t2/special.png','luta/img/t2/walk.png','luta/img/t2/win.png','luta/img/t2/winbig.png','luta/img/t3/block.png','luta/img/t3/crouch.png','luta/img/t3/highkick.png','luta/img/t3/hit.png','luta/img/t3/idle.png','luta/img/t3/jab.png','luta/img/t3/jump.png','luta/img/t3/ko.png','luta/img/t3/lowkick.png','luta/img/t3/punch.png','luta/img/t3/special.png','luta/img/t3/walk.png','luta/img/t3/win.png','luta/img/t3/winbig.png','luta/img/t3/women.png','luta/img/t4/block.png','luta/img/t4/crouch.png','luta/img/t4/fireball.png','luta/img/t4/highkick.png','luta/img/t4/hit.png','luta/img/t4/idle.png','luta/img/t4/jab.png','luta/img/t4/jump.png','luta/img/t4/ko.png','luta/img/t4/lowkick.png','luta/img/t4/punch.png','luta/img/t4/special.png','luta/img/t4/walk.png','luta/img/t4/win.png','luta/img/t4/winbig.png','luta/img/t5/block.png','luta/img/t5/crouch.png','luta/img/t5/fireball.png','luta/img/t5/highkick.png','luta/img/t5/hit.png','luta/img/t5/idle.png','luta/img/t5/jab.png','luta/img/t5/jump.png','luta/img/t5/ko.png','luta/img/t5/lowkick.png','luta/img/t5/punch.png','luta/img/t5/special.png','luta/img/t5/walk.png','luta/img/t5/win.png','luta/img/t5/winbig.png','luta/img/t6/block.png','luta/img/t6/crouch.png','luta/img/t6/fireball.png','luta/img/t6/highkick.png','luta/img/t6/hit.png','luta/img/t6/idle.png','luta/img/t6/jab.png','luta/img/t6/jump.png','luta/img/t6/ko.png','luta/img/t6/lowkick.png','luta/img/t6/punch.png','luta/img/t6/special.png','luta/img/t6/walk.png','luta/img/t6/win.png','luta/img/t6/winbig.png','luta/img/t7/block.png','luta/img/t7/crouch.png','luta/img/t7/fireball.png','luta/img/t7/highkick.png','luta/img/t7/hit.png','luta/img/t7/idle.png','luta/img/t7/jab.png','luta/img/t7/jump.png','luta/img/t7/ko.png','luta/img/t7/lowkick.png','luta/img/t7/punch.png','luta/img/t7/special.png','luta/img/t7/walk.png','luta/img/t7/win.png','luta/img/t7/winbig.png','luta/img/tri_logo.png','luta/snd/tri_menu.mp3'];
 const CDN=['https://cdnjs.cloudflare.com/ajax/libs/three.js/r128/three.min.js','https://cdn.jsdelivr.net/npm/peerjs@1.5.4/dist/peerjs.min.js'];
 const abs=p=>new URL(p,location).href;
 self.addEventListener('install',e=>{e.waitUntil(caches.open(V).then(c=>c.addAll(BASE).then(()=>Promise.all(LUTA.concat(CDN).map(p=>c.add(p).catch(()=>{}))))).then(()=>self.skipWaiting()))});
